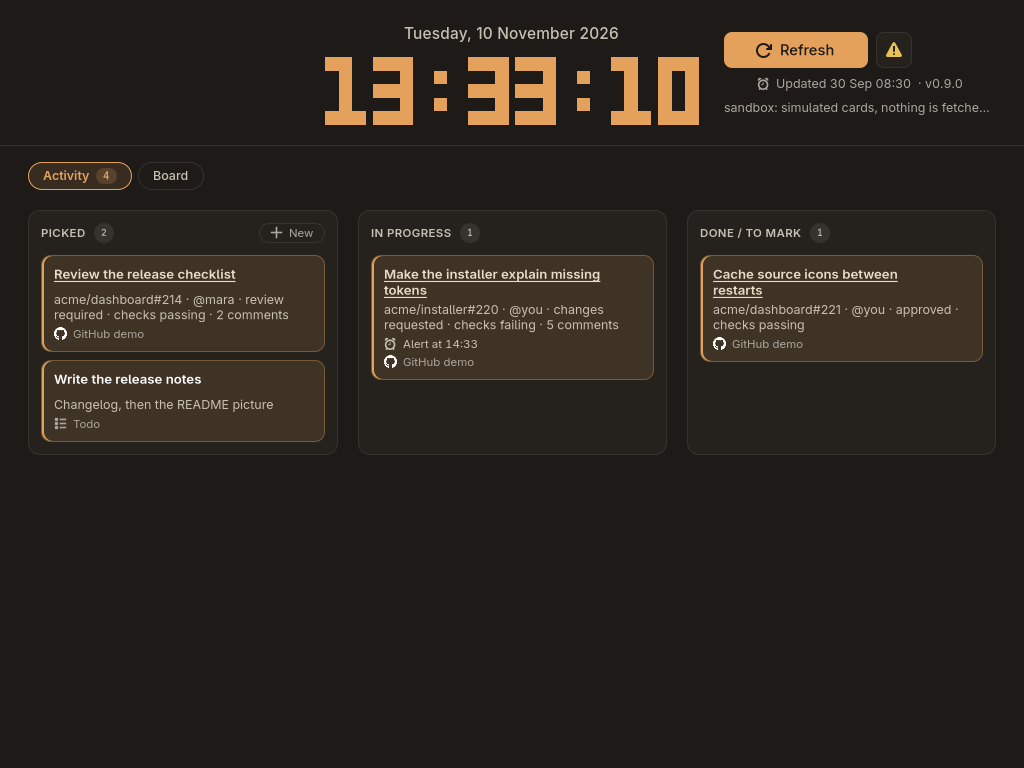
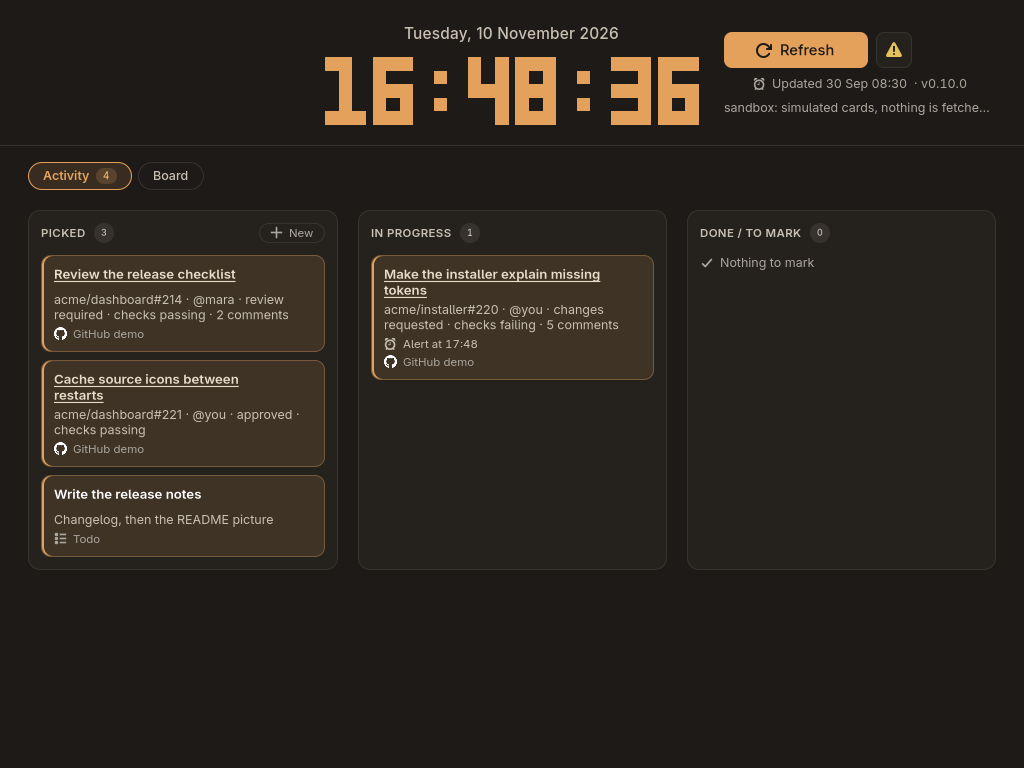
chore(release): prepare v0.10.0
Bump the workspace to 0.10.0, matching the Arch package, and turn
Unreleased into the 0.10.0 section: Settings sets the sources, their
stacks and their tokens up, writing the config file with its comments
kept and the env file, and the keyboard moves only between the cards.
The four README pictures that show the version are taken again.

diff --git a/CHANGELOG.md b/CHANGELOG.md
@@ -1,6 +1,8 @@
 # Changelog
 
-## Unreleased
+## 0.10.0
+
+Settings sets the sources, their stacks and their tokens up, writing the config file with its comments kept and the env file, and the keyboard moves only between the cards.
 
 ### Features
 
